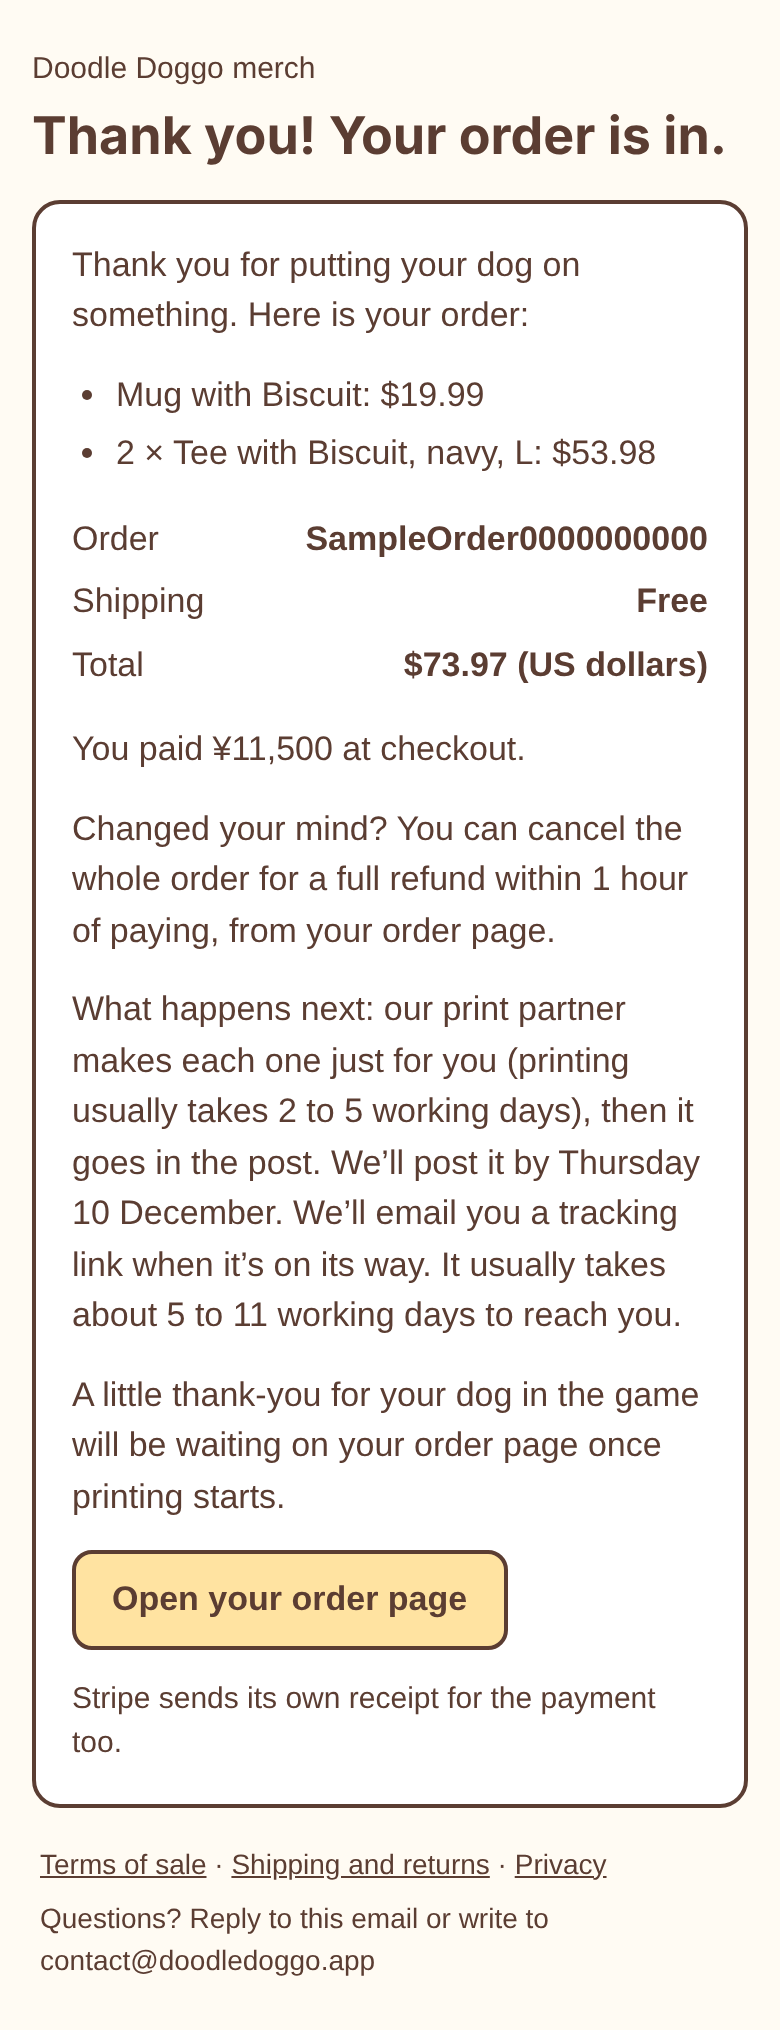
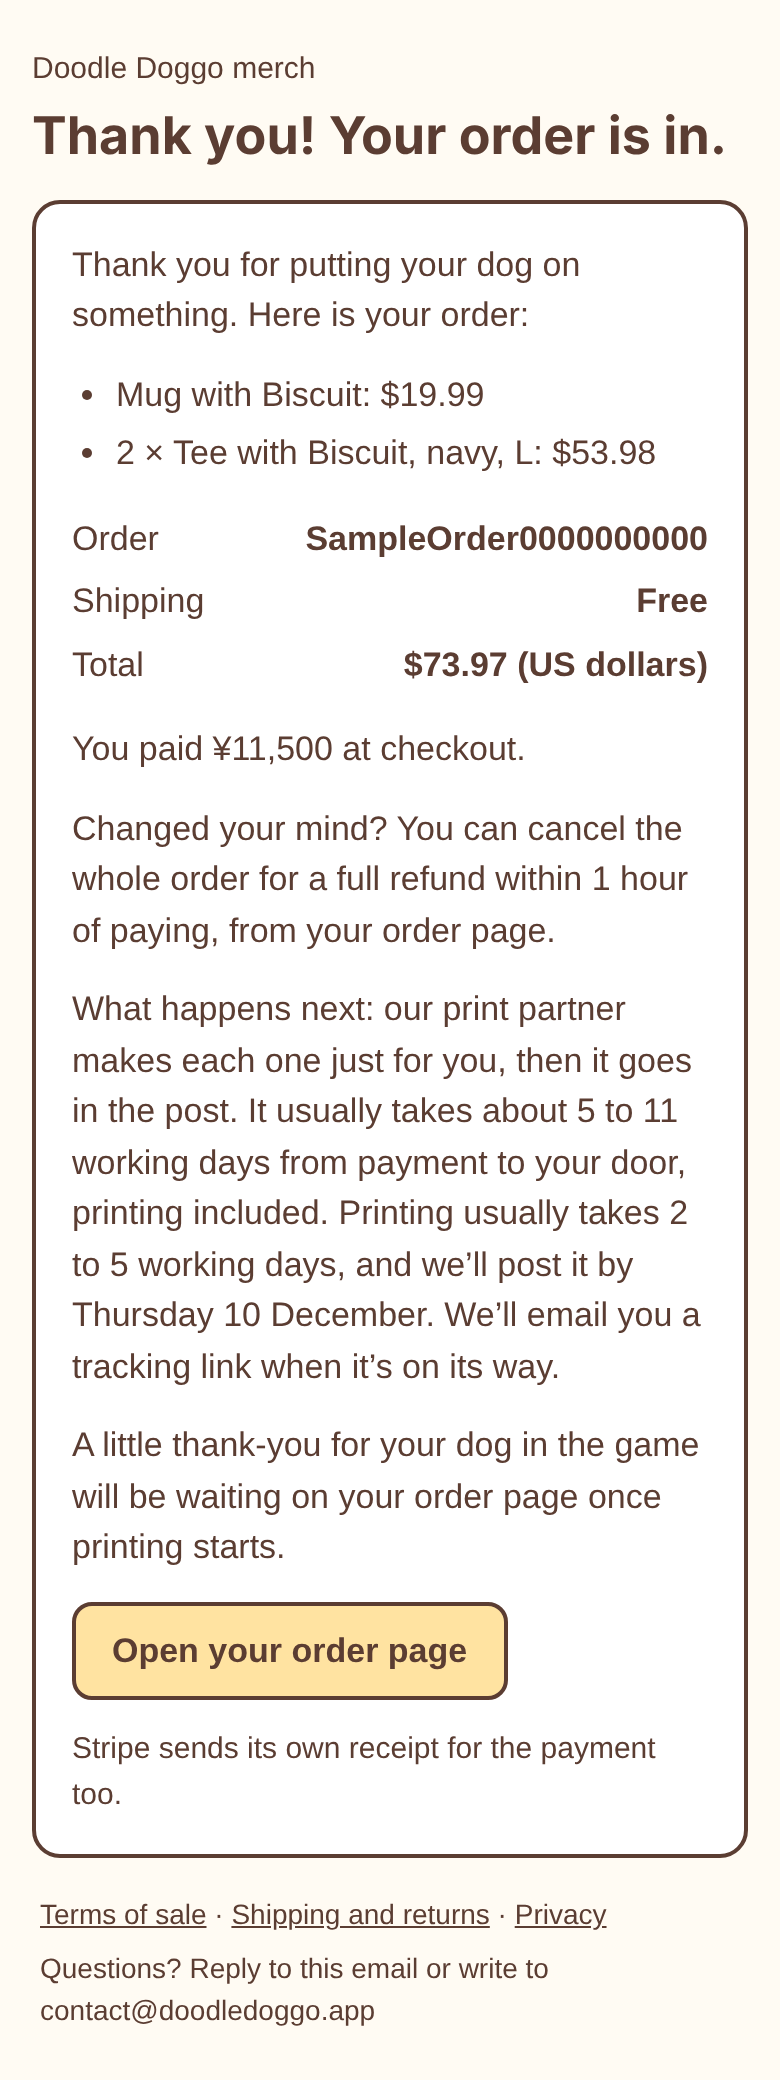
Merch part 9: R2-m3 (over the threshold the basket's Shipping box says the shipping is free) and R2-m5 (the thanks email uses the page's words: from payment to your door, printing included); the thanks email sample remade
Claude-Session: https://claude.ai/code/session_01D6KLY4FcqQgUYQKpcr8J68

Changed region(s): [[0.0308, 0.031, 0.9538, 0.9931]]

diff --git a/docs/design/merch/part6_shots/emails/thanks.html b/docs/design/merch/part6_shots/emails/thanks.html
@@ -1,1 +1,1 @@
-<!doctype html><html lang="en"><head><meta charset="utf-8"><meta name="viewport" content="width=device-width,initial-scale=1"><meta name="color-scheme" content="light"><title>Thank you for your order</title></head><body style="margin:0;padding:0;background:#FFFBF3;"><div style="max-width:560px;margin:0 auto;padding:24px 16px;font-family:Arial,Helvetica,sans-serif;font-size:17px;line-height:1.5;color:#5B3D32;"><p style="margin:0 0 6px;font-size:15px;">Doodle Doggo merch</p><h1 style="margin:0 0 16px;font-family:ui-rounded,'SF Pro Rounded','Arial Rounded MT Bold','Trebuchet MS','Segoe UI',Arial,Helvetica,sans-serif;font-size:26px;line-height:1.2;color:#5B3D32;">Thank you! Your order is in.</h1><div style="background:#FFFFFF;border:2px solid #5B3D32;border-radius:14px;padding:18px 18px 4px;"><p style="margin:0 0 14px;">Thank you for putting your dog on something. Here is your order:</p><ul style="margin:0 0 14px;padding:0 0 0 22px;"><li style="margin:0 0 4px;">Mug with Biscuit: $19.99</li><li style="margin:0 0 4px;">2 × Tee with Biscuit, navy, L: $53.98</li></ul><table role="presentation" cellpadding="0" cellspacing="0" style="border-collapse:collapse;margin:0 0 14px;width:100%;"><tr><td style="padding:3px 12px 3px 0;vertical-align:top;white-space:nowrap;">Order</td><td style="padding:3px 0;vertical-align:top;text-align:right;font-weight:bold;">SampleOrder0000000000</td></tr><tr><td style="padding:3px 12px 3px 0;vertical-align:top;white-space:nowrap;">Shipping</td><td style="padding:3px 0;vertical-align:top;text-align:right;font-weight:bold;">Free</td></tr><tr><td style="padding:3px 12px 3px 0;vertical-align:top;white-space:nowrap;">Total</td><td style="padding:3px 0;vertical-align:top;text-align:right;font-weight:bold;">$73.97 (US dollars)</td></tr></table><p style="margin:0 0 14px;">You paid ¥11,500 at checkout.</p><p style="margin:0 0 14px;">Changed your mind? You can cancel the whole order for a full refund within 1 hour of paying, from your order page.</p><p style="margin:0 0 14px;">What happens next: our print partner makes each one just for you (printing usually takes 2 to 5 working days), then it goes in the post. We’ll post it by Thursday 10 December. We’ll email you a tracking link when it’s on its way. It usually takes about 5 to 11 working days to reach you.</p><p style="margin:0 0 14px;">A little thank-you for your dog in the game will be waiting on your order page once printing starts.</p><p style="margin:0 0 14px;"><a href="https://doodledoggo.app/merch/#/order/mo_SampleOrder0000000000" style="display:inline-block;background:#FFE3A1;border:2px solid #5B3D32;border-radius:10px;padding:10px 18px;color:#5B3D32;font-weight:bold;text-decoration:none;">Open your order page</a></p><p style="margin:0 0 14px;font-size:15px;">Stripe sends its own receipt for the payment too.</p></div><div style="margin:18px 4px 0;font-size:14px;line-height:1.5;"><p style="margin:0 0 6px;"><a href="https://doodledoggo.app/merch/terms/" style="color:#5B3D32;">Terms of sale</a> &middot; <a href="https://doodledoggo.app/merch/shipping/" style="color:#5B3D32;">Shipping and returns</a> &middot; <a href="https://doodledoggo.app/privacy" style="color:#5B3D32;">Privacy</a></p><p style="margin:0;">Questions? Reply to this email or write to contact@doodledoggo.app</p></div></div></body></html>
+<!doctype html><html lang="en"><head><meta charset="utf-8"><meta name="viewport" content="width=device-width,initial-scale=1"><meta name="color-scheme" content="light"><title>Thank you for your order</title></head><body style="margin:0;padding:0;background:#FFFBF3;"><div style="max-width:560px;margin:0 auto;padding:24px 16px;font-family:Arial,Helvetica,sans-serif;font-size:17px;line-height:1.5;color:#5B3D32;"><p style="margin:0 0 6px;font-size:15px;">Doodle Doggo merch</p><h1 style="margin:0 0 16px;font-family:ui-rounded,'SF Pro Rounded','Arial Rounded MT Bold','Trebuchet MS','Segoe UI',Arial,Helvetica,sans-serif;font-size:26px;line-height:1.2;color:#5B3D32;">Thank you! Your order is in.</h1><div style="background:#FFFFFF;border:2px solid #5B3D32;border-radius:14px;padding:18px 18px 4px;"><p style="margin:0 0 14px;">Thank you for putting your dog on something. Here is your order:</p><ul style="margin:0 0 14px;padding:0 0 0 22px;"><li style="margin:0 0 4px;">Mug with Biscuit: $19.99</li><li style="margin:0 0 4px;">2 × Tee with Biscuit, navy, L: $53.98</li></ul><table role="presentation" cellpadding="0" cellspacing="0" style="border-collapse:collapse;margin:0 0 14px;width:100%;"><tr><td style="padding:3px 12px 3px 0;vertical-align:top;white-space:nowrap;">Order</td><td style="padding:3px 0;vertical-align:top;text-align:right;font-weight:bold;">SampleOrder0000000000</td></tr><tr><td style="padding:3px 12px 3px 0;vertical-align:top;white-space:nowrap;">Shipping</td><td style="padding:3px 0;vertical-align:top;text-align:right;font-weight:bold;">Free</td></tr><tr><td style="padding:3px 12px 3px 0;vertical-align:top;white-space:nowrap;">Total</td><td style="padding:3px 0;vertical-align:top;text-align:right;font-weight:bold;">$73.97 (US dollars)</td></tr></table><p style="margin:0 0 14px;">You paid ¥11,500 at checkout.</p><p style="margin:0 0 14px;">Changed your mind? You can cancel the whole order for a full refund within 1 hour of paying, from your order page.</p><p style="margin:0 0 14px;">What happens next: our print partner makes each one just for you, then it goes in the post. It usually takes about 5 to 11 working days from payment to your door, printing included. Printing usually takes 2 to 5 working days, and we’ll post it by Thursday 10 December. We’ll email you a tracking link when it’s on its way.</p><p style="margin:0 0 14px;">A little thank-you for your dog in the game will be waiting on your order page once printing starts.</p><p style="margin:0 0 14px;"><a href="https://doodledoggo.app/merch/#/order/mo_SampleOrder0000000000" style="display:inline-block;background:#FFE3A1;border:2px solid #5B3D32;border-radius:10px;padding:10px 18px;color:#5B3D32;font-weight:bold;text-decoration:none;">Open your order page</a></p><p style="margin:0 0 14px;font-size:15px;">Stripe sends its own receipt for the payment too.</p></div><div style="margin:18px 4px 0;font-size:14px;line-height:1.5;"><p style="margin:0 0 6px;"><a href="https://doodledoggo.app/merch/terms/" style="color:#5B3D32;">Terms of sale</a> &middot; <a href="https://doodledoggo.app/merch/shipping/" style="color:#5B3D32;">Shipping and returns</a> &middot; <a href="https://doodledoggo.app/privacy" style="color:#5B3D32;">Privacy</a></p><p style="margin:0;">Questions? Reply to this email or write to contact@doodledoggo.app</p></div></div></body></html>

diff --git a/cloudflare/merch/mail.js b/cloudflare/merch/mail.js
@@ -155,8 +155,11 @@ export function build(kind, view, env) {
       B.push(['p', 'Thank you for putting your dog on something. Here is your order:'], ['list', priced(ls)], totals());
       if (pres) B.push(['p', 'You paid ' + pres + ' at checkout.']);
       if (v.can_cancel) B.push(['p', 'Changed your mind? You can cancel the whole order for a full refund within 1 hour of paying, from your order page.']);
-      B.push(['p', 'What happens next: our print partner makes each one just for you (' + PRINT_WORDS + '), then it goes in the post.' + (post ? ' We’ll post it by ' + post + '.' : '') +
-        ' We’ll email you a tracking link when it’s on its way.' + (Array.isArray(v.eta) && v.eta.length === 2 ? ' It usually takes about ' + num(v.eta[0]) + ' to ' + num(v.eta[1]) + ' working days to reach you.' : '')]);
+      // second review (R2-m5): the page's words (part 9 M4): the delivery days are from payment to the door, printing included, then the
+      // printing days and the posting date, so nobody adds the two up
+      B.push(['p', 'What happens next: our print partner makes each one just for you, then it goes in the post.' +
+        (Array.isArray(v.eta) && v.eta.length === 2 ? ' It usually takes about ' + num(v.eta[0]) + ' to ' + num(v.eta[1]) + ' working days from payment to your door, printing included.' : '') +
+        ' ' + PRINT_WORDS.charAt(0).toUpperCase() + PRINT_WORDS.slice(1) + (post ? ', and we’ll post it by ' + post + '.' : '.') + ' We’ll email you a tracking link when it’s on its way.']);
       // the gift is shown only once the cancel hour is over (review finding 2): here only a word about it, and only when a code is reserved
       if (v.gift === 'soon') B.push(['p', 'A little thank-you for your dog in the game will be waiting on your order page once printing starts.']);
       else if (v.gift === 'ready') B.push(['p', 'A little thank-you for your dog in the game is waiting on your order page.']);

diff --git a/site/merch/merch.js b/site/merch/merch.js
@@ -242,11 +242,13 @@
   }
 
   // ---- shipping words for the chosen country
-  function shipLine() {
+  // q: the basket's quote (second review R2-m3: over the threshold the box says the shipping is free, as the Shipping row does)
+  function shipLine(q) {
     var c = country(), z = zoneOf(c);
     if (!c) return 'Choose where it\'s going under <b>Ship to</b>, and the shipping shows here.';
     if (c.soon) return '<b>Coming soon to ' + esc(placeName(c)) + '.</b> We\'re sorting out the tax paperwork first, so we can\'t take orders there yet.';
     if (!z) return '';
+    if (q && z.free_from != null && num(q.ship_fee) === 0 && num(q.subtotal) >= num(z.free_from)) return 'Your shipping to ' + esc(placeName(c)) + ' is <b>free</b>: your things come to ' + money(z.free_from).replace('.00', '') + ' or more.';
     var s = 'Shipping to ' + esc(placeName(c)) + ': <b>' + money(z.fee) + '</b>.';
     if (z.free_from != null) s += ' ' + freeRule(z.free_from);
     else if (z.extra) s += ' Each extra mug or tee adds ' + money(z.extra) + '.';
@@ -586,7 +588,7 @@
     $$('[data-rm]').forEach(function (b) { b.onclick = function () { remove(b.dataset.rm); }; });
     $$('[data-chg]').forEach(function (b) { b.onclick = function () { change(b.dataset.chg); }; });
     // ship to and the totals
-    var sb = '<div class="lg">Shipping</div><p class="shipline">' + shipLine() + '</p>';
+    var sb = '<div class="lg">Shipping</div><p class="shipline">' + shipLine(basket.length && okQuote(q) ? q : null) + '</p>';
     if (c && !c.soon && q && etaLine(q.eta)) sb += '<p class="eta"><span aria-hidden="true">📦</span><span>' + esc(etaLine(q.eta)) + '</span></p>';
     $('#shipBox').innerHTML = sb;
     var t = '';

diff --git a/merch/test_page.js b/merch/test_page.js
@@ -855,6 +855,7 @@ async function part9Checks() {
     ok('part 9 M2: where shipping is never free, no free-shipping line', !(await pg.$('#freeMore')) && !/free shipping/i.test(await text(pg, '#shipBox') + await text(pg, '#totals')));
     await setShip(pg, 'US'); await pg.click('.bl [data-qp]'); await pg.waitForSelector('#qtable'); await settle(pg);
     ok('part 9 M2: at the threshold or over, no "add more" line (the Shipping row says Free)', !(await pg.$('#freeMore')) && (await text(pg, '[data-q=ship]')) === 'Free');
+    ok('second review R2-m3: at the threshold or over, the Shipping box says the shipping is free too (never the fee)', (await text(pg, '#shipBox .shipline')) === 'Your shipping to the United States is free: your things come to $' + CAT_E.zones.find((z) => z.id === 'us_jp').free_from / 100 + ' or more.' && !/\$\d/.test((await text(pg, '#shipBox .shipline')).replace(/\$\d+ or more/, '')), await text(pg, '#shipBox .shipline'));
     await finish('part 9 free shipping', t);
   });
   await blk('M3', async () => {
